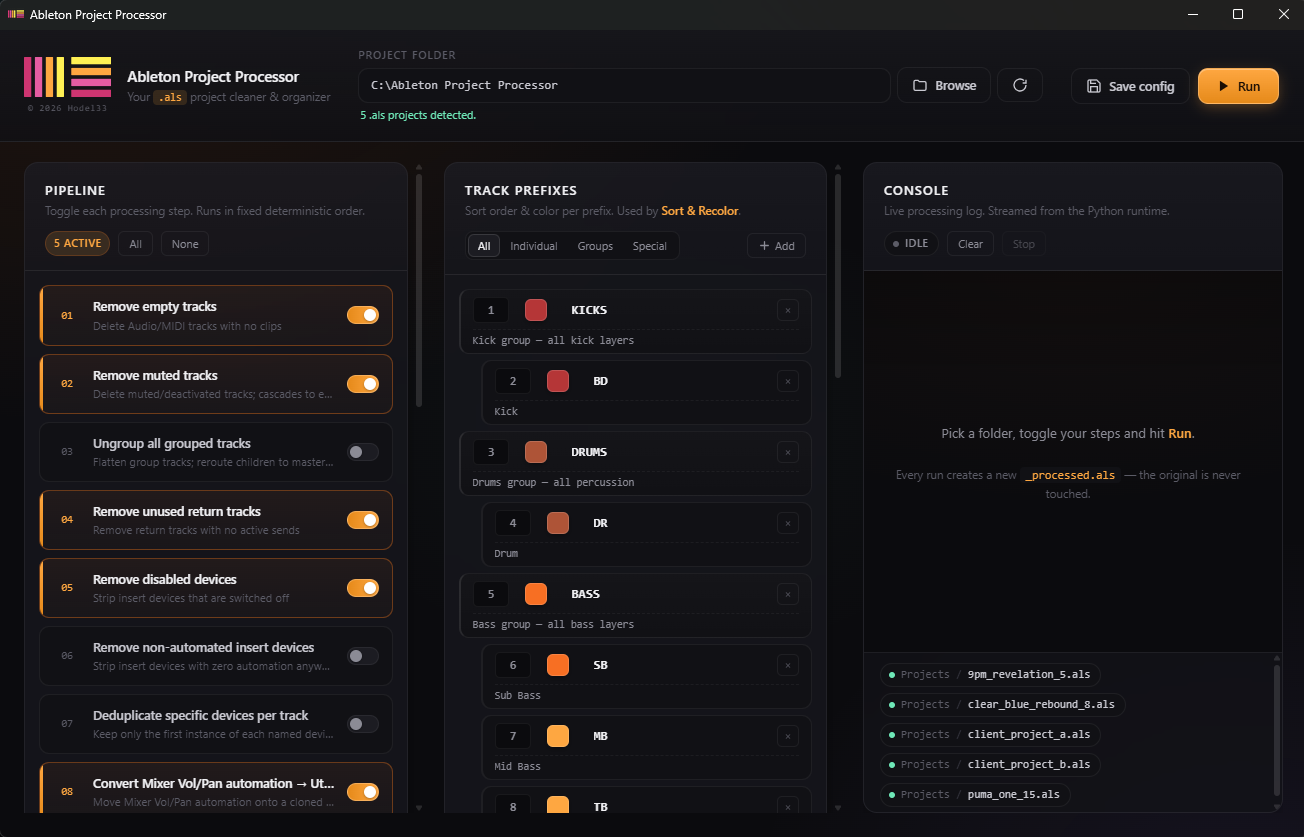
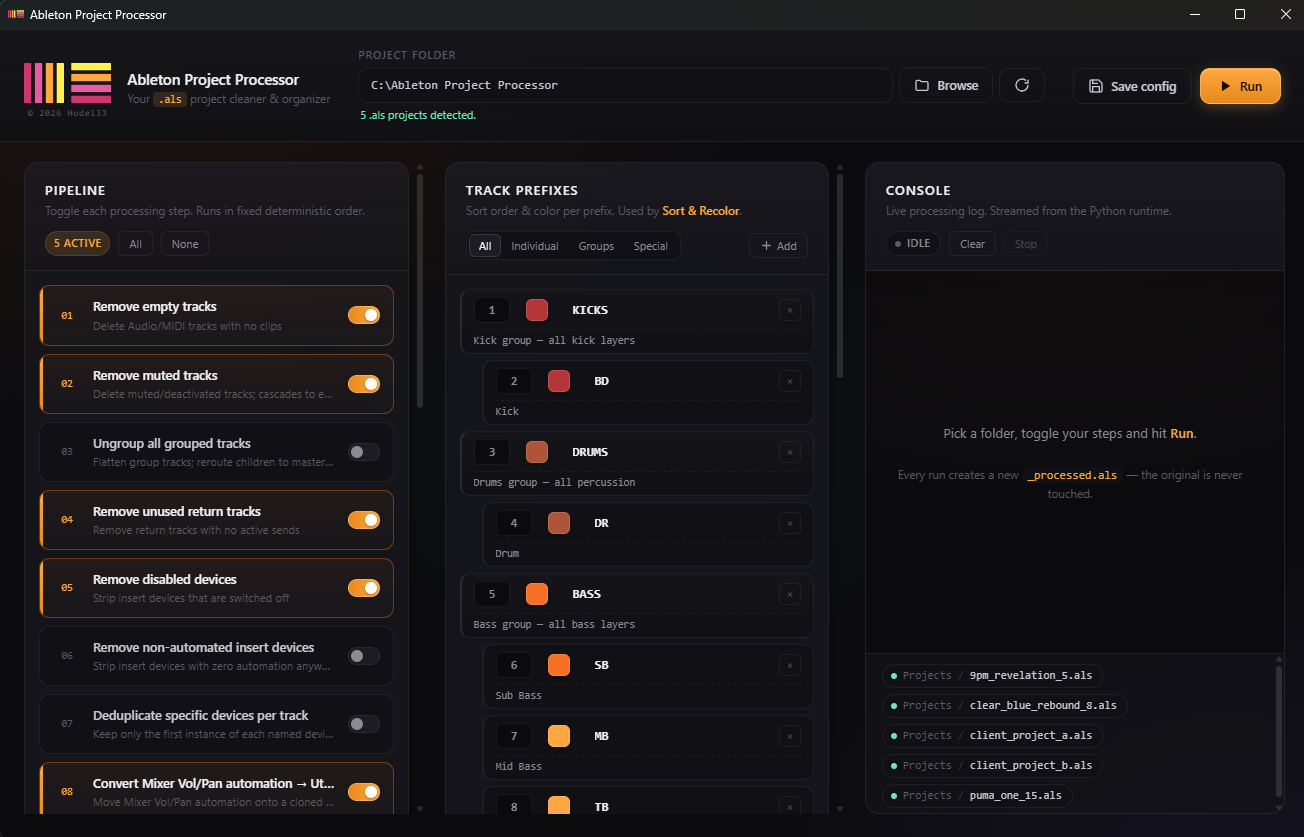
refactor(gui): minor layout tweaks

diff --git a/gui/styles.css b/gui/styles.css
@@ -111,15 +111,15 @@ body::after {
 }
 
 .brand {
-  display: flex; align-items: center; gap: 16px;
+  display: flex; align-items: flex-end; gap: 16px;
 }
 
 .logo {
+  position: relative;
   display: flex;
-  flex-direction: column;
   align-items: center;
   justify-content: center;
-  gap: 5px;
+  margin-bottom: 5px;
 }
 .logo svg {
   height: 40px;
@@ -127,6 +127,11 @@ body::after {
   display: block;
 }
 .logo .copyright {
+  position: absolute;
+  top: 100%;
+  left: 50%;
+  transform: translateX(-50%);
+  margin-top: 4px;
   font-family: var(--font-mono);
   font-size: 9px;
   font-weight: 300;
